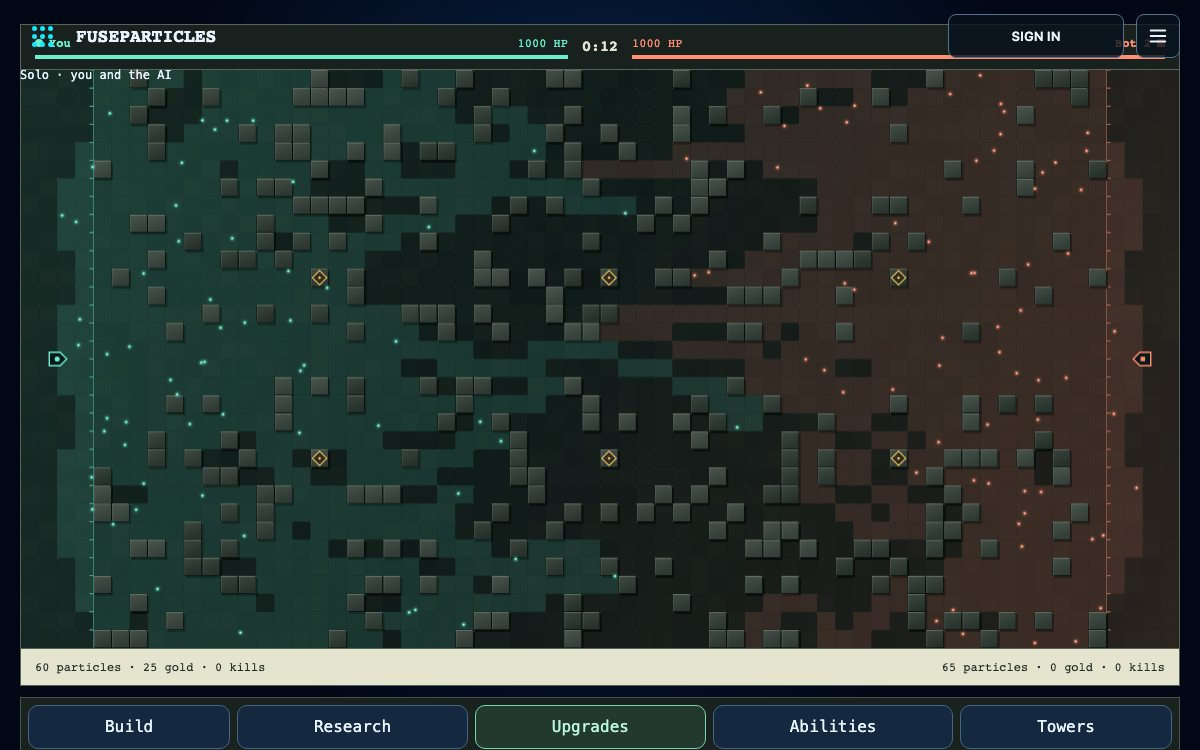
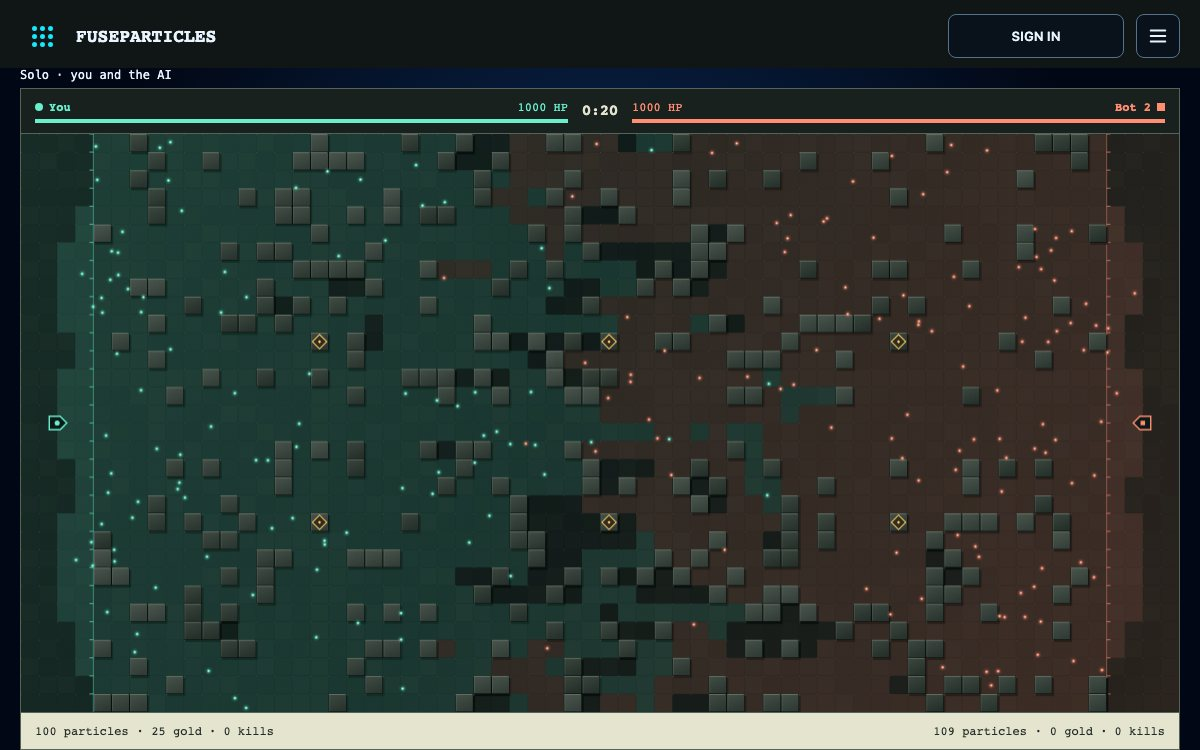
Refresh the Fuseparticles cover from the finished layout

diff --git a/scripts/gallery-capture.ts b/scripts/gallery-capture.ts
@@ -72,14 +72,12 @@ type Recipe = (page: Page) => Promise<void>;
 const RECIPES: Record<string, Recipe> = {
   "fuse-particles": async (page) => {
     await openPlayOptions(page, "single");
-    await page
-      .getByRole("button", { name: "START MATCH", exact: true })
-      .click();
+    await page.getByRole("button", { name: /^start match$/i }).click();
     await page.locator('.fuseParticles-room[data-phase="running"]').waitFor();
     await page.waitForFunction(() => {
       const clock =
         document.querySelector(".fp-match .fp-arena time")?.textContent ?? "";
-      return /^0:(1[2-9]|[2-5][0-9])$/.test(clock);
+      return /^0:[2-5][0-9]$/.test(clock);
     });
   },
   "fuse-drivers": async (page) => {
